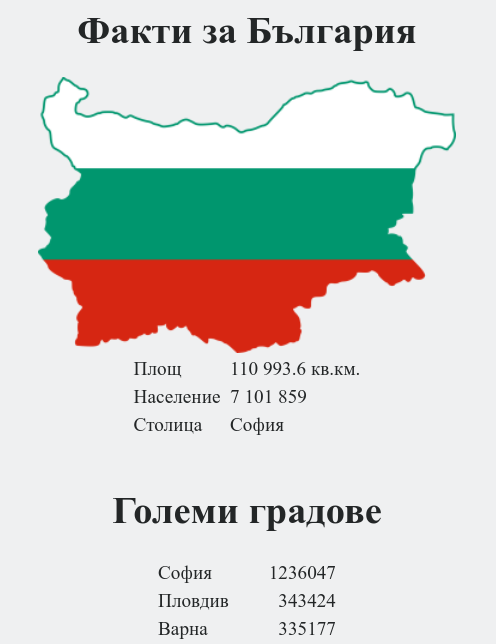
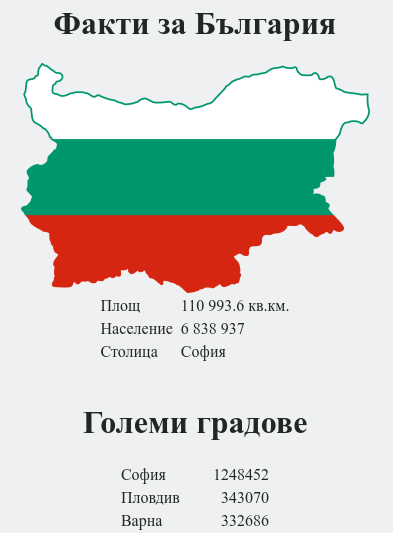
Application data and view refresh

diff --git a/app2/web/index.php b/app2/web/index.php
@@ -16,7 +16,7 @@
         <tr>
           <td>Население</td>
           <td></td>
-          <td>7 101 859</td>
+          <td>6 838 937</td>
         </tr>
         <tr>
           <td>Столица</td>
@@ -51,6 +51,8 @@
    }
 ?>
       </table>
+
+      <?php print "<br /><br /><br /><small>Processed by <b>".gethostname()."</b> on ".date('Y-m-d-H-i-s')."</small>\n"; ?>
     </div>
   </body>
 </html>

diff --git a/app2/README.md b/app2/README.md
@@ -8,7 +8,7 @@ It can be used in containers or by following the classical approach.
 
 Contains the following set of files:
 
-```
+```text
 .
 ├── db                        ---> database image files
 |   └── db_setup.sql          ---> database seed file
